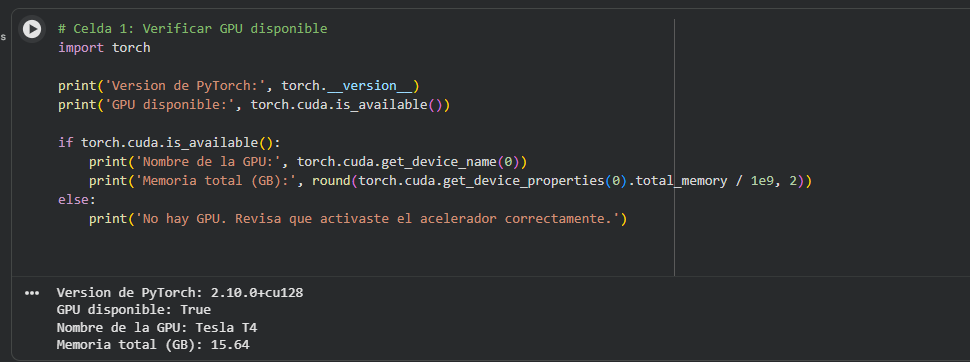
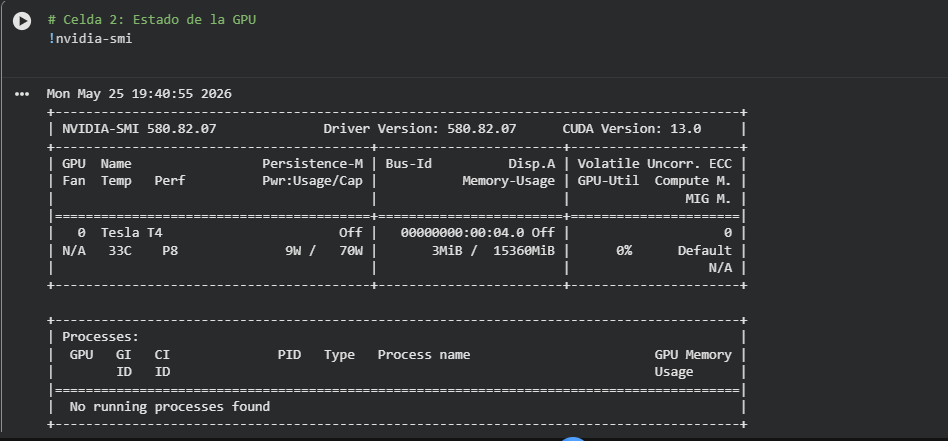
Reporte escrito e imágenes completamente integrados

diff --git a/reporte/reporte_taller.md b/reporte/reporte_taller.md
@@ -11,7 +11,7 @@
 ---
 
 ## 1. Sección 1: Configuración del Entorno
-*(Inserta aquí tu [PANTALLAZO] de las Celdas 1 y 2)*
+![Configuración de Entorno](pantallazo1.png)
 
 ### Respuestas:
 * **Campos de `nvidia-smi`:**
@@ -24,7 +24,7 @@
 ---
 
 ## 2. Sección 2: Conceptos CPU vs GPU
-*(Inserta aquí tu [PANTALLAZO] de los tensores ejecutados en CUDA)*
+![Tensores GPU](pantallazo2.png)
 
 ### Respuestas:
 * **Ventajas de `.to('cuda')`:** Abstracción absoluta del código. No requiere gestionar buffers de memoria manuales, punteros complejos ni configurar explícitamente los hilos y bloques mediante la sintaxis nativa de CUDA C.
@@ -34,7 +34,7 @@
 ---
 
 ## 3. Sección 3: Dataset MNIST
-*(Inserta aquí tu [PANTALLAZO] de la cuadrícula de dígitos cargados)*
+![Dataset MNIST](pantallazo3.png)
 
 ### Respuestas:
 * **División de datos:** Separar los conjuntos previene el sobreajuste (overfitting). Si entrenamos y evaluamos con el mismo set, el modelo simplemente memoriza las muestras y sus etiquetas individuales perdiendo la capacidad de abstracción de patrones geométricos para datos nuevos del mundo real.
@@ -44,7 +44,7 @@
 ---
 
 ## 4. Sección 4: Arquitectura de la Red Neuronal
-*(Inserta aquí tu [PANTALLAZO] del resumen secuencial del modelo)*
+![Arquitectura de la Red](pantallazo4.png)
 
 ### Respuestas:
 * **Dimensiones de Entrada (784):** Corresponde al aplanamiento unidimensional de las dimensiones bidimensionales de la imagen ($28 \times 28 = 784$ neuronas de entrada receptoras).
@@ -54,7 +54,7 @@
 ---
 
 ## 5. Sección 5: Entrenamiento CPU vs GPU
-*(Inserta aquí tu [PANTALLAZO] con la comparación final de tiempos y gráficas de pérdida)*
+![Entrenamiento y Tiempos](pantallazo5.png)
 
 ### Respuestas:
 * **Análisis de tiempos:** El uso de núcleos CUDA paraleliza la multiplicación repetitiva de matrices, logrando reducir drásticamente el tiempo de ejecución en comparación con los ciclos secuenciales de la CPU.
@@ -64,7 +64,7 @@
 ---
 
 ## 6. Sección 6: Evaluación y Predicciones
-*(Inserta aquí tu [PANTALLAZO] de los porcentajes de acierto y la visualización final)*
+![Evaluación de Resultados](pantallazo6.png)
 
 ### Respuestas:
 * **Por qué evaluar con datos nuevos:** Permite certificar matemáticamente la precisión real ante escenarios productivos autónomos fuera del ambiente controlado de entrenamiento.
@@ -74,7 +74,7 @@
 ---
 
 ## 7. Sección 7: Dígito Propio y Probabilidades
-*(Inserta aquí tu [PANTALLAZO] del procesamiento de tu propia imagen y predicción)*
+![Dígito Propio](pantallazo7.png)
 
 ### Respuestas:
 * **Necesidad de inversión de color:** El dataset original MNIST sitúa el fondo con valor de intensidad 0 (negro absoluto) y los trazos con intensidades cercanas a 255 (blanco puro). Al dibujar convencionalmente sobre fondos claros, se debe aplicar `ImageOps.invert` para asegurar la concordancia numérica con la configuración interna del modelo.